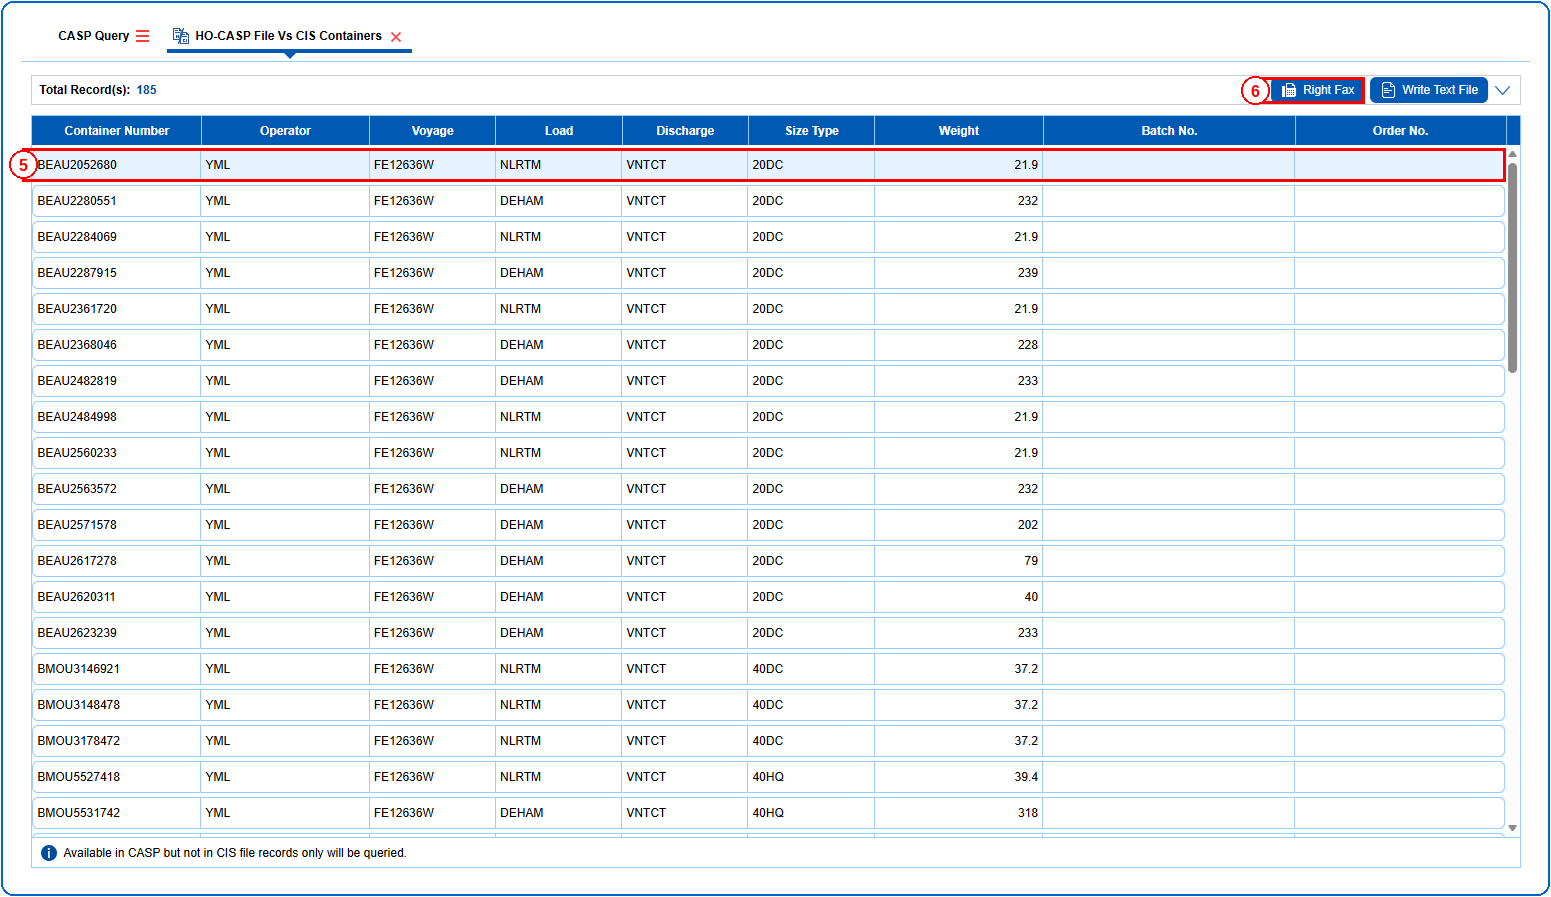
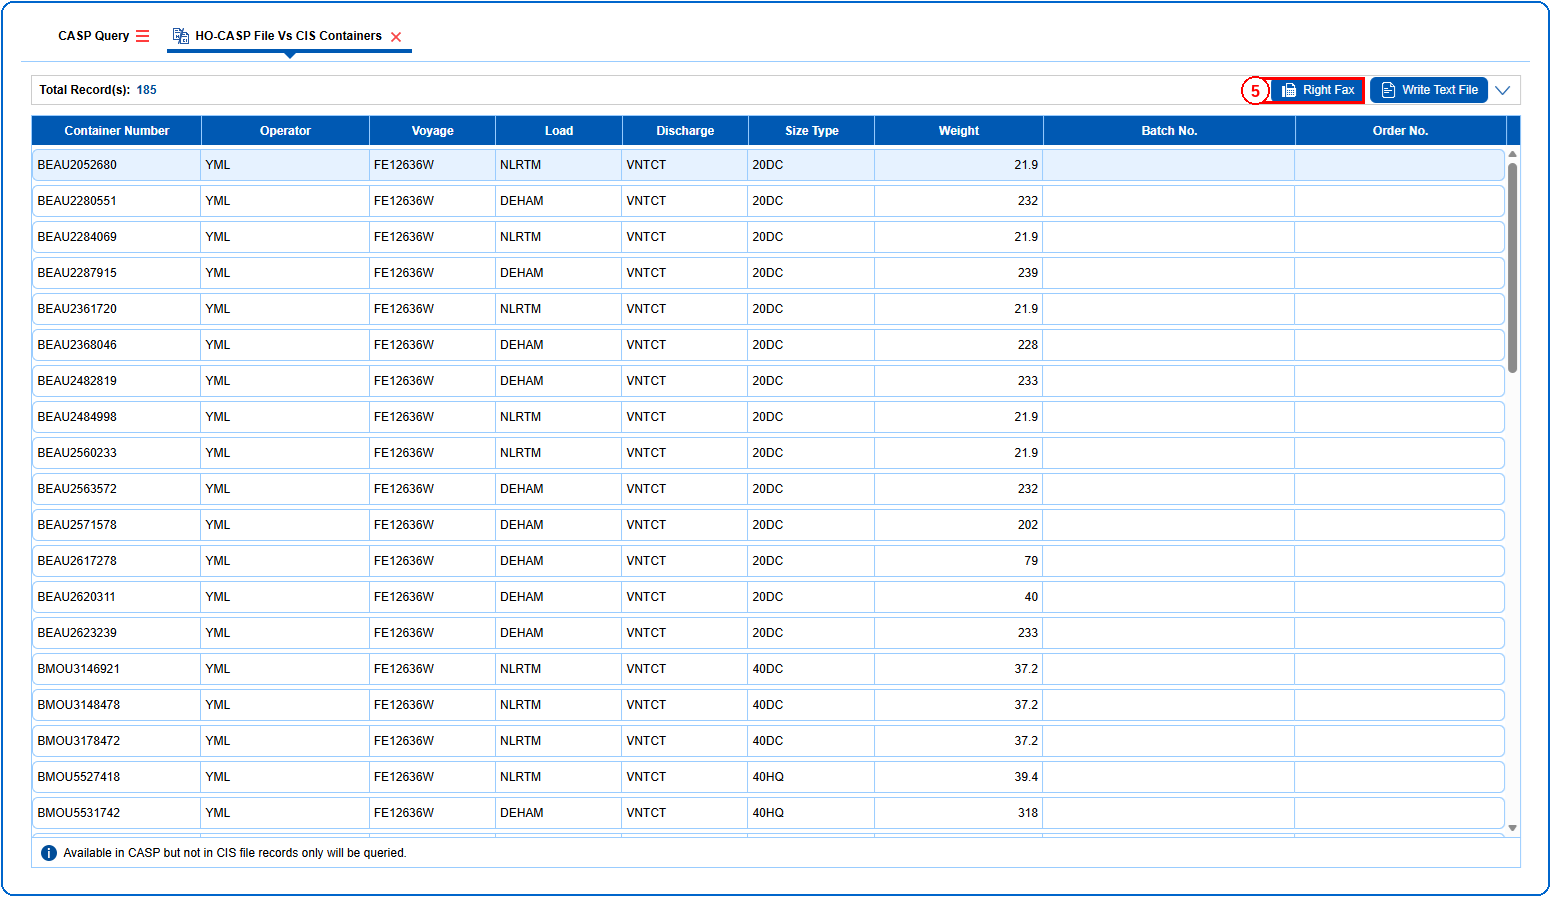
HO-CASP: no record selection; Write Text File uses Right Fax success shot

Changed region(s): [[0.0, 0.1561, 0.9594, 0.2185]]

diff --git a/work/edi_incoming/pages/how_to_write_text_file.md b/work/edi_incoming/pages/how_to_write_text_file.md
@@ -9,6 +9,7 @@ status: Waiting
 **Step 3** : Enter the query fields with desirable input for querying data and click on {img:../img/btn_search_ho.png}.
 ![](../img/ho_casp_02.png)
 **Step 4** : Upon clicking {img:../img/btn_search_ho.png}, containers with matching information are returned.
-**Step 5** : Select the required container.
-**Step 6** : Click on {img:../img/btn_write_text_file.png}.
+**Step 5** : Click on {img:../img/btn_write_text_file.png}.
 ![](../img/ho_casp_03_write_text_file.png)
+If successfully generated, a success message is shown as given below.
+![](../img/ho_casp_04_right_fax.png)

diff --git a/work/edi_incoming/pages/how_to_right_fax.md b/work/edi_incoming/pages/how_to_right_fax.md
@@ -9,8 +9,7 @@ status: Waiting
 **Step 3** : Enter the query fields with desirable input for querying data and click on {img:../img/btn_search_ho.png}.
 ![](../img/ho_casp_02.png)
 **Step 4** : Upon clicking {img:../img/btn_search_ho.png}, containers with matching information are returned.
-**Step 5** : Select the required container.
-**Step 6** : Click on {img:../img/btn_right_fax.png}.
+**Step 5** : Click on {img:../img/btn_right_fax.png}.
 ![](../img/ho_casp_03_right_fax.png)
 If successfully generated, a success message is shown as given below.
 ![](../img/ho_casp_04_right_fax.png)
